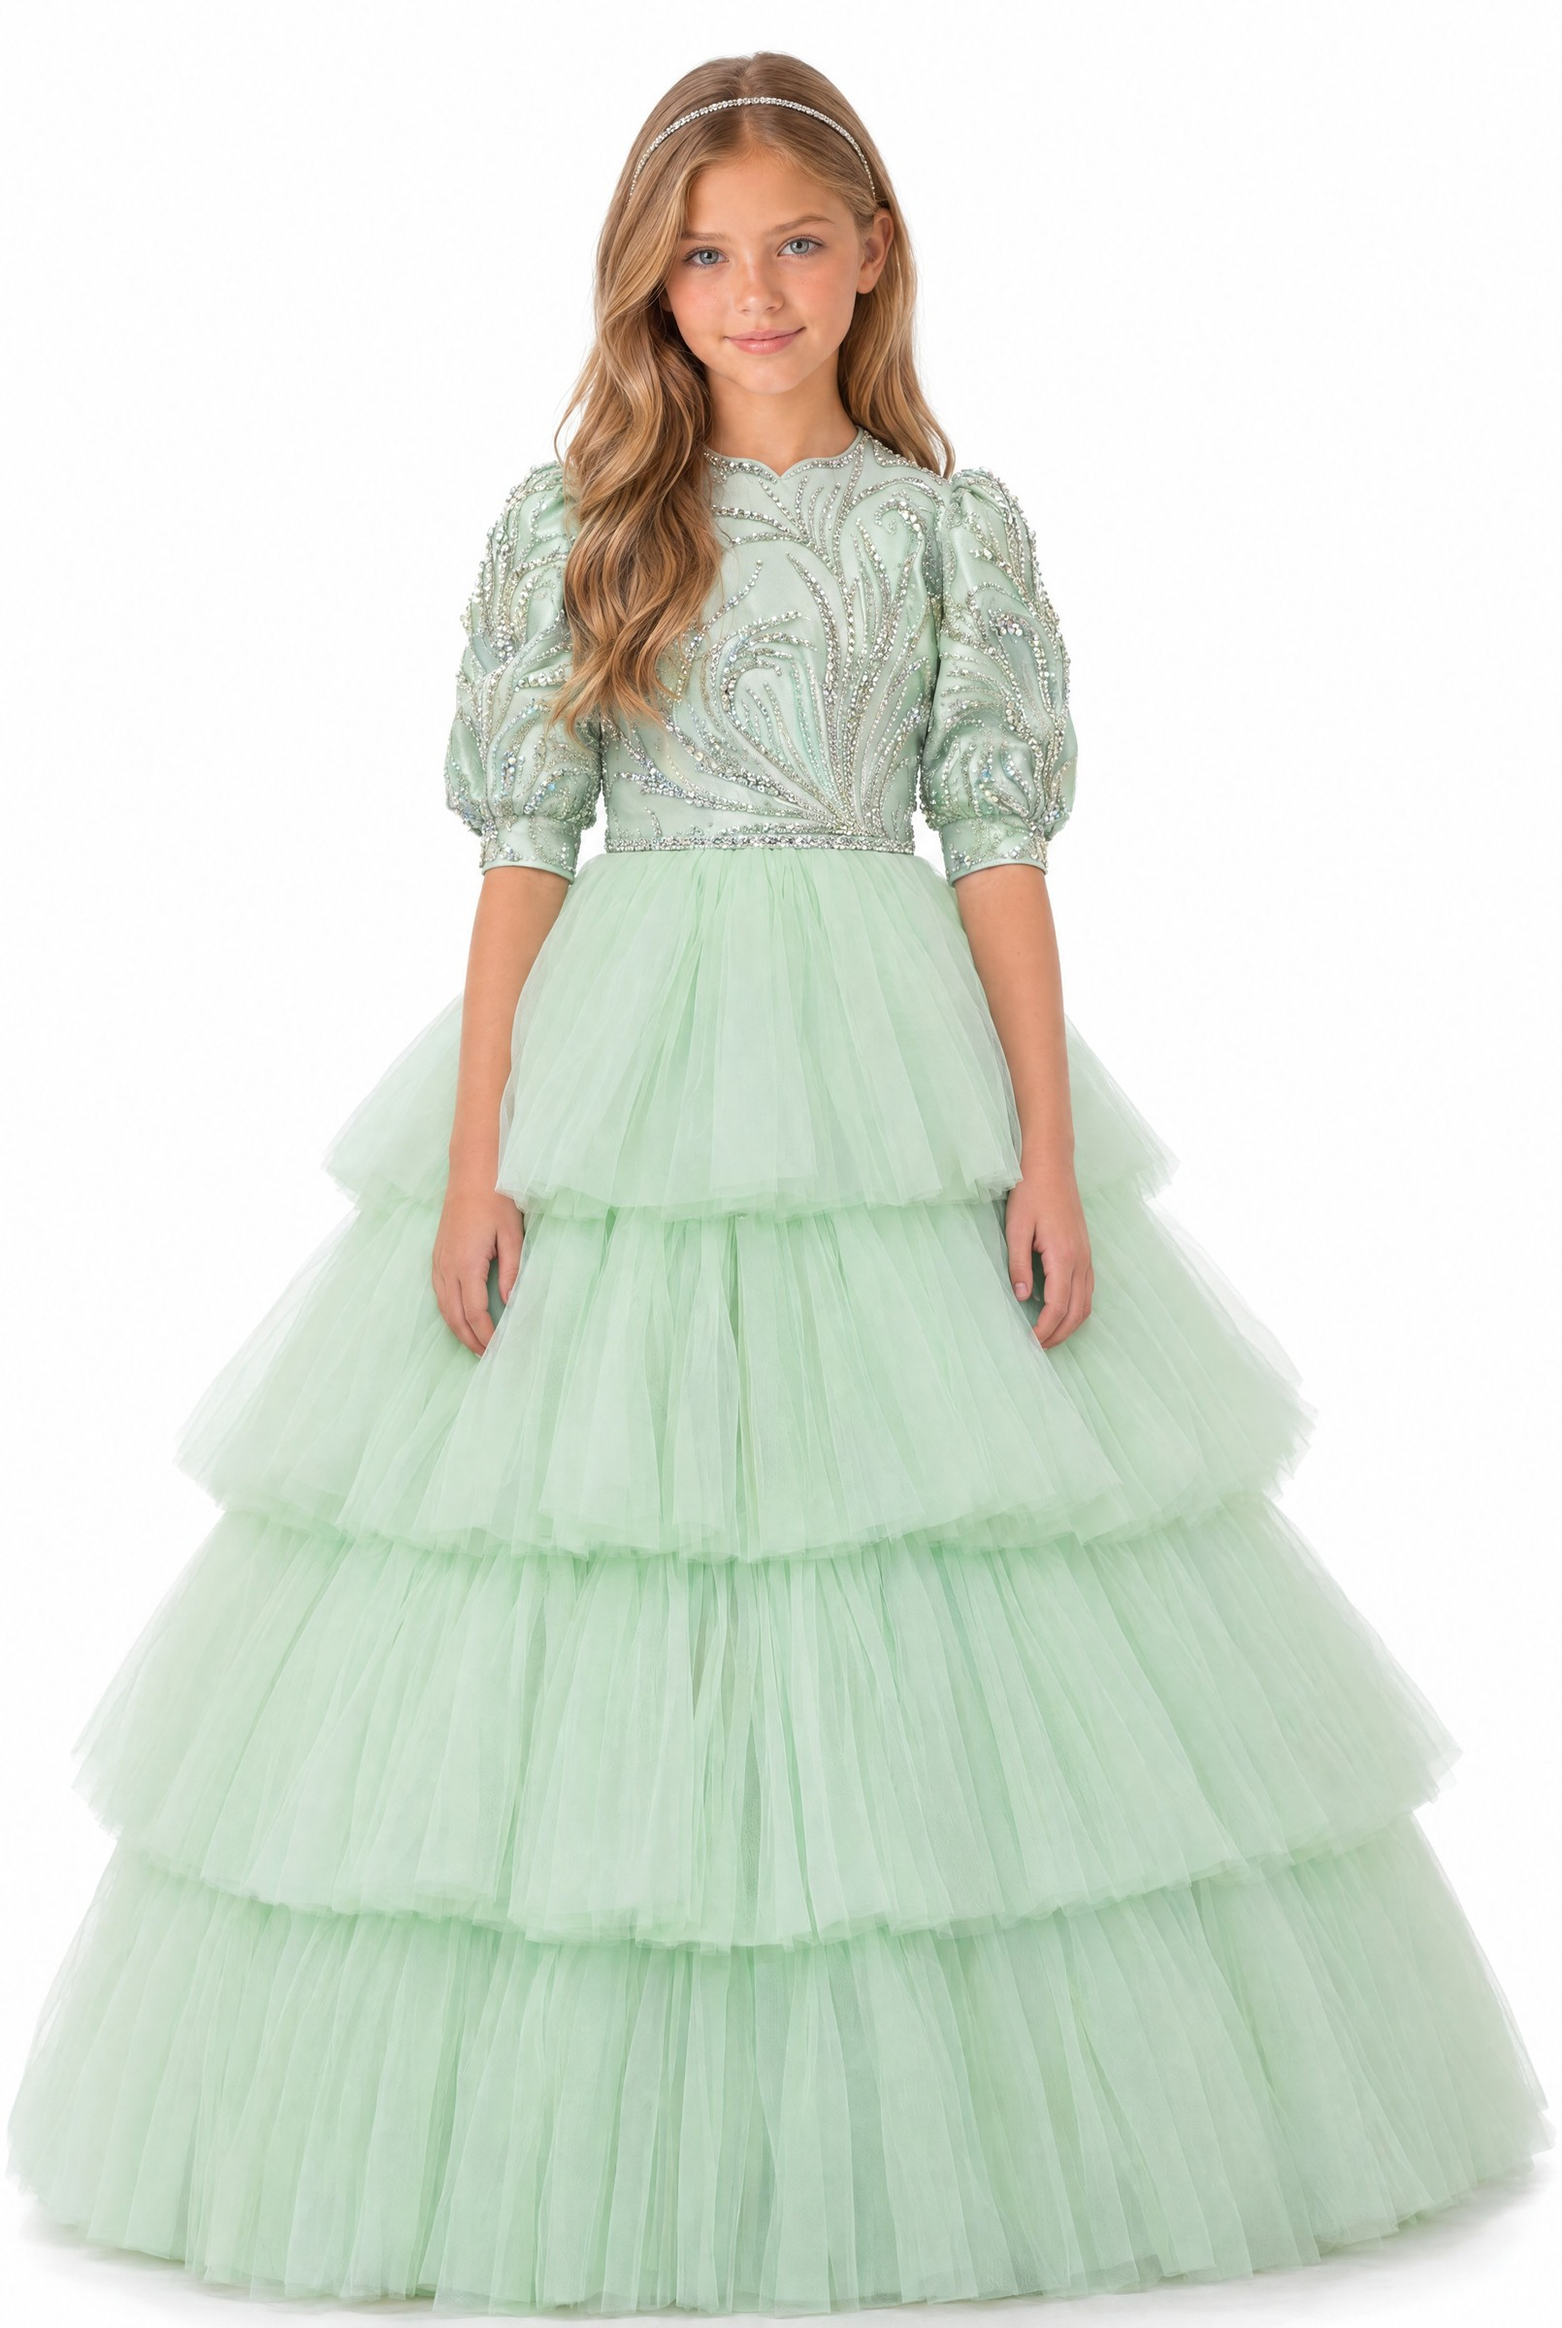
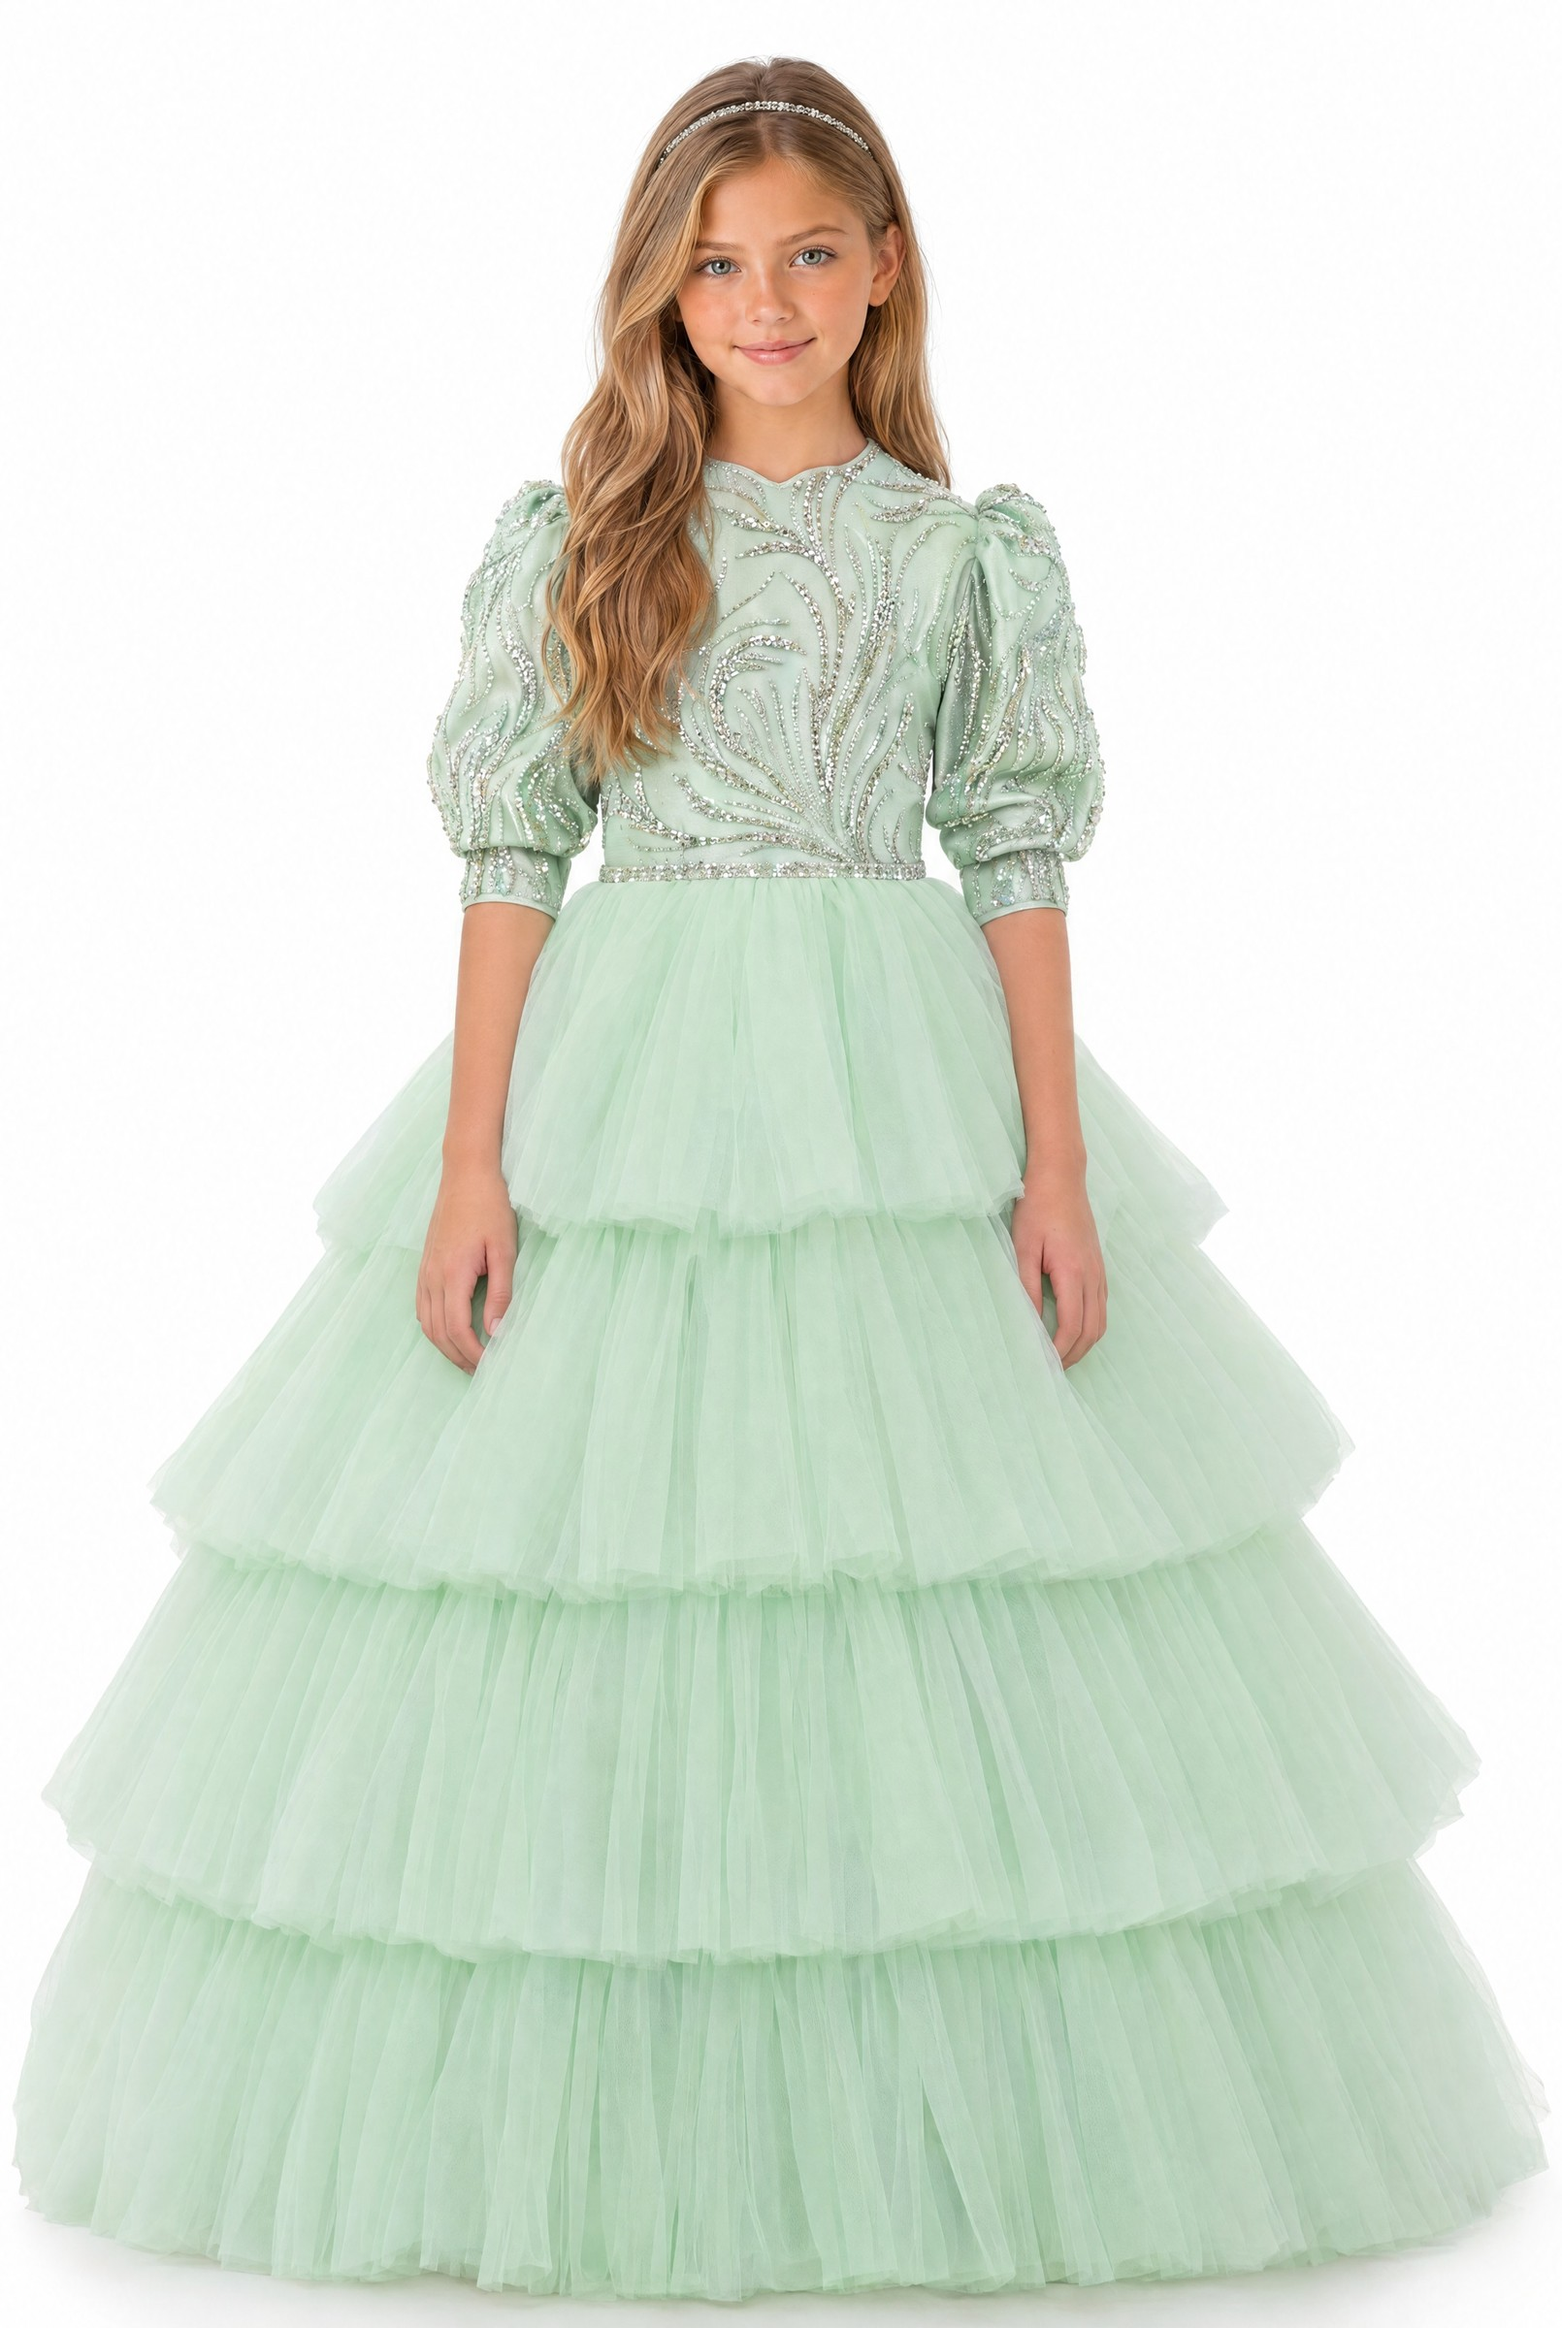
ילדה גדולה בדגמים 1 ו־5, תיקון שרוול דגם 7 ובדיקת החלקת מרקם זולה
Claude-Session: https://claude.ai/code/session_013bHfeojD3ywY6KMPCookv2

diff --git a/review/approved.md b/review/approved.md
@@ -283,3 +283,9 @@
 
 ### חסם, 18.11
 - המחבר "Magnific שורץ" (`mcp__Magnific-bcaf73fa__*`) חסום בשיחה בכלל הרשאות. כל הלוחות והרפרנסים נמצאים בחשבון הזה.
+
+## 18.11 (המשך)
+- **מרקם, הפתרון הזול:** quality max יקר מדי (940 קרדיטים לתמונה). נבדק ועובד: מעבר החלקה ב־Nano Banana 2.1 4K על התמונה המוגמרת (145 קרדיטים), עם פרומפט "re-render, keep everything identical, only smooth skin". השמלה נשמרת. בבדיקה הראשונה צבע העיניים השתנה מכחול לירקרק: להוסיף לפרומפט שמירה על צבע העיניים. לא להשתמש ב־skin enhancer.
+- **אושרו (ילדה גדולה, לוח חדש):** דגם 6 `big` אפשרות ALT (https://www.magnific.com/app/creation/u5YuS4kQLD); דגם 7 `big` אפשרות ALT (https://www.magnific.com/app/creation/YMsYmqDWeC) אחרי תיקון שרוול באידיאוגרם 4.5: בטנת מנטה מתחת לטול, לא שקוף (https://www.magnific.com/app/creation/lJIl08Ngv9, 2K).
+- **ילדה גדולה, ממתין לאישור:** דגם 9 https://www.magnific.com/app/creation/3z53eOVREY ; דגם 12 https://www.magnific.com/app/creation/jUBj2N9LD0 ; דגם 13 https://www.magnific.com/app/creation/gOtg2sOSXO ; דגם 5 https://www.magnific.com/app/creation/kspk9wg16B ; דגם 1 פרחים https://www.magnific.com/app/creation/s78sYSfl8e ; דגם 1 חלקה https://www.magnific.com/app/creation/1le13VEr4r
+- דגם 12 `d1` (פסים) באיכות max: https://www.magnific.com/app/creation/lJIlNFIgv9 , ממתין לאישור.
